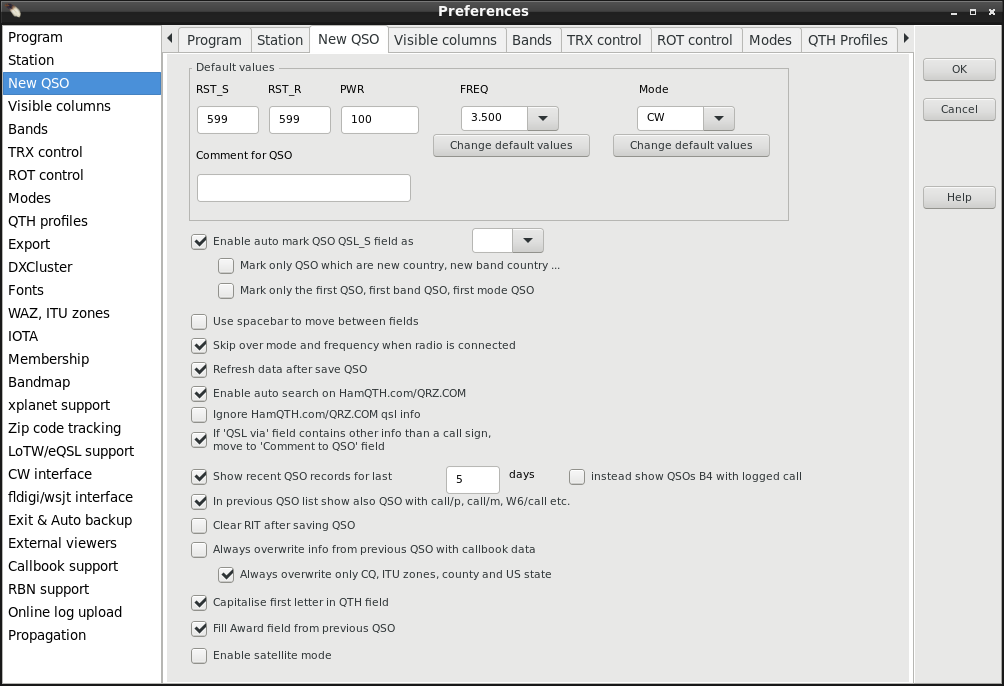
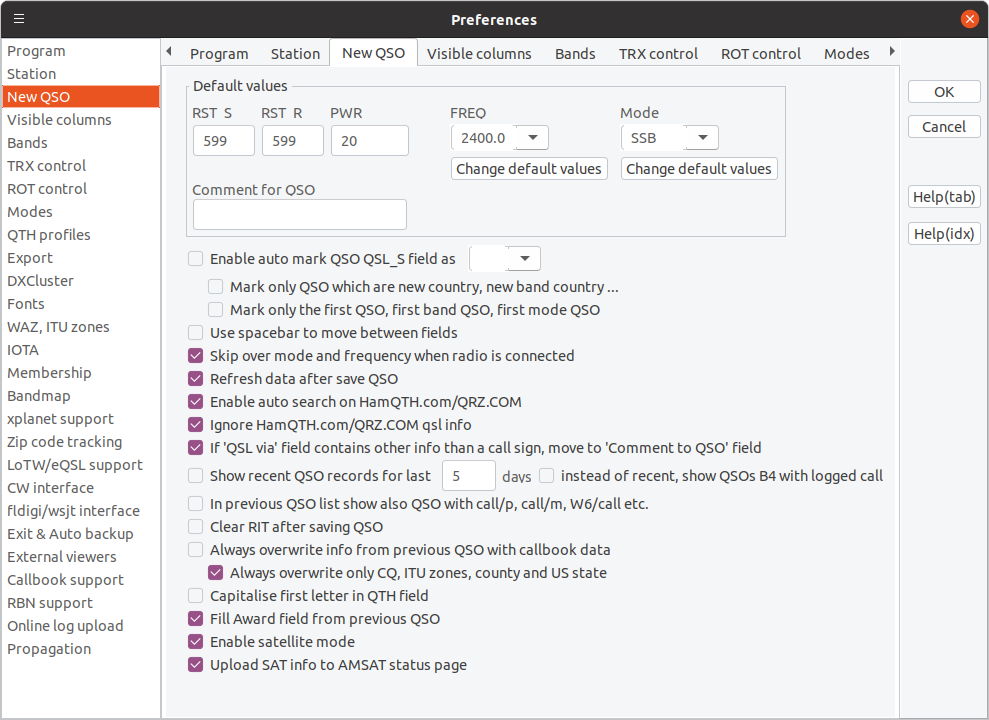
Add option to upload SAT status info to AMSAT status page

Changed region(s): [[0.0, 0.0, 1.0, 1.0], [0.4247, 0.1224, 0.7887, 0.2449], [0.7583, 0.3061, 0.7887, 0.3367]]

diff --git a/help/h1.html b/help/h1.html
@@ -173,7 +173,8 @@
     was OM/OK2CQR, SP/OK2CQR etc.</br>
     The <strong>Enable satellite mode</strong> Opens second tab 'Satellte' to NewQSO/DXCC statistic view. There you can select used satellite name,
     RX frequency and also propagation mode for logged qso.</br>
-    Keys and Shortcuts for NewQSO Window you will find <a href="h20.html#ah16">here</a>.<br><br>
+    Keys and Shortcuts for NewQSO Window you will find <a href="h20.html#ah16">here</a>.<br>
+    If you enable the <strong>Upload SAT info to AMSAT status page</strong> cqrlog will upload a status info to the AMSAT satellite status page. This only happens for satellite QSOs (i.e. propagation mode is "SAT"). The status page can be found under: <a target="_blank" href="https://www.amsat.org/status/">https://www.amsat.org/status/</a>.<br><br>
 
 </div>
 
